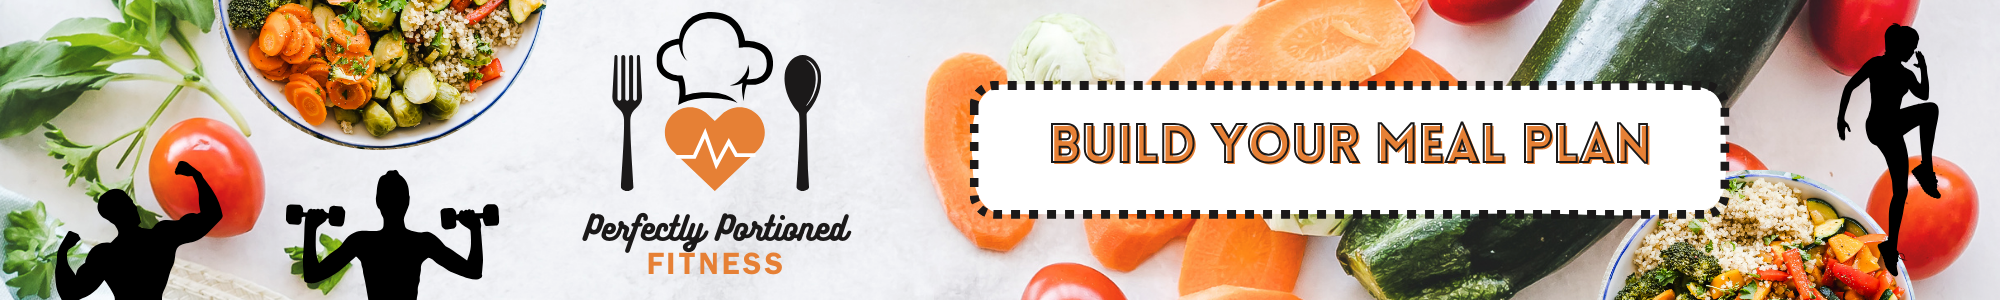
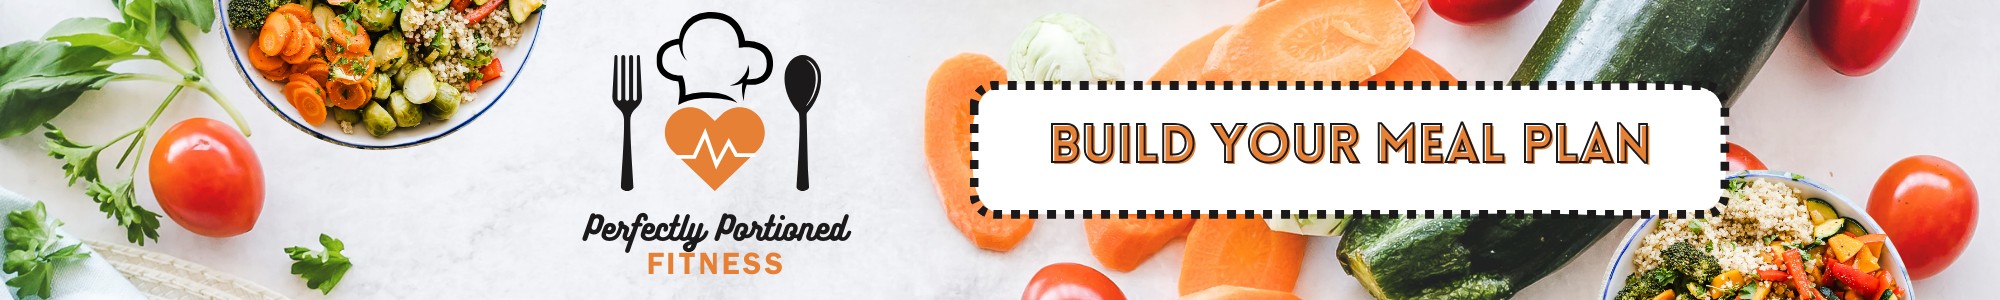
completed project

Changed region(s): [[0.0, 0.54, 0.248, 1.0], [0.899, 0.09, 0.992, 0.9]]

diff --git a/finalproject/script/projectJS.js b/finalproject/script/projectJS.js
@@ -1,10 +1,10 @@
 let myForm = document.getElementById("myForm");
 
 function validateEmail(email) {
-    let regex = /\S+@\S+\.\S+/;
+    //regex was a tutorial from stackoverflow
+    let regex = /^[^\s@]+@[^\s@]+\.[^\s@]+$/;
     return regex.test(email);
 }
-
 // Application must collect user's name, email, and weekly goal
 // Meal plan will display the user input for 5 meals for the week (Mon to Sun)
 // Users will be able to clear the weekly planner
@@ -17,17 +17,148 @@ function clearInput() {
     // Button will call a function that generates a new Webpage that will display the meal plan based on user's input
     // Use document.write() method to populate the newly generated webpage with all the HTML elements, formatting, and variable values needed to produce the desired output in Web (.htm) format
     // HINT: a monospaced font will allow text wrapping in your output
-    document.getElementById("formButton").addEventListener('click', function() {
-        let email = document.getElementById("email");
+    document.getElementById("formButton").addEventListener('click', function(e) {
+        let email = document.getElementById("email").value;
         if (!validateEmail(email)) {
-            alert('Please enter a valid email address.')
-            preventDefault();
+            alert('Please enter a valid email address.');
+            e.preventDefault();
         } else {
+            e.preventDefault();
+            let firstName = document.getElementById("firstName").value;
+            let goal = document.getElementById("goal").value;
+            let breakfast = document.getElementById("breakfast").value;
+            let snack1 = document.getElementById("snack1").value;
+            let lunch = document.getElementById("lunch").value;
+            let snack2 = document.getElementById("snack2").value;
+            let dinner = document.getElementById("dinner").value;
             
-        }
-        
-    })
+            let generatedPlan = `
+                <!DOCTYPE html>
+                    <html>
+                        <head>
+                            <title>Meal Plan</title>
+                            <style>
+                            /* CSS Reset */
+                            * {
+                                margin: 0;
+                                padding: 0;
+                                box-sizing: border-box;
+                            }
+                    
+                            h1, p, table, th, td {
+                                font-family: Arial, Helvetica, sans-serif;
+                                padding: 5px;
+                                text-align: center;
+                            }
+                            
+                            table, th, td {
+                                border-collapse: collapse;
+                                border: 1px solid;
+                            }
+
+                            table {
+                                margin-left: auto;
+                                margin-right: auto;
+                            }
+
+                            th {
+                                background-color: aliceblue;
+                            }
+
+                            #printPage {
+                                font-weight: bold;
+                                font-size: large;
+                                background-color: aliceblue;
+                                padding: 5px 10px;
+                                text-align: center;
+                                display: block;
+                                margin-top: 10px;
+                                margin-left: auto;
+                                margin-right: auto;
+                                border-radius: 5px;
+                                border: 1px solid black;
+                            }
+                            </style>
+                        </head>
+                        <body>
+                            <h1>Meal Plan for ${firstName}</h1>
+                            <p><b>Goal for the week:</b> ${goal}</p>
+                            <table>
+                                <tr>
+                                    <th>Meals</th>
+                                    <th>Monday</th>
+                                    <th>Tuesday</th>
+                                    <th>Wednesday</th>
+                                    <th>Thursday</th>
+                                    <th>Friday</th>
+                                    <th>Saturday</th>
+                                    <th>Sunday</th>
+                                </tr>
+                                <tr>
+                                    <th>Breakfast</th>
+                                    <td>${breakfast}</td>
+                                    <td>${breakfast}</td>
+                                    <td>${breakfast}</td>
+                                    <td>${breakfast}</td>
+                                    <td>${breakfast}</td>
+                                    <td>${breakfast}</td>
+                                    <td>${breakfast}</td>
+                                </tr>
+                                <tr>
+                                    <th>Snack</th>
+                                    <td>${snack1}</td>
+                                    <td>${snack1}</td>
+                                    <td>${snack1}</td>
+                                    <td>${snack1}</td>
+                                    <td>${snack1}</td>
+                                    <td>${snack1}</td>
+                                    <td>${snack1}</td>
+                                </tr>
+                                <tr>
+                                    <th>Lunch</th>
+                                    <td>${lunch}</td>
+                                    <td>${lunch}</td>
+                                    <td>${lunch}</td>
+                                    <td>${lunch}</td>
+                                    <td>${lunch}</td>
+                                    <td>${lunch}</td>
+                                    <td>${lunch}</td>
+                                </tr>
+                                <tr>
+                                    <th>Snack</th>
+                                    <td>${snack2}</td>
+                                    <td>${snack2}</td>
+                                    <td>${snack2}</td>
+                                    <td>${snack2}</td>
+                                    <td>${snack2}</td>
+                                    <td>${snack2}</td>
+                                    <td>${snack2}</td>
+                                </tr>
+                                <tr>
+                                    <th>Dinner</th>
+                                    <td>${dinner}</td>
+                                    <td>${dinner}</td>
+                                    <td>${dinner}</td>
+                                    <td>${dinner}</td>
+                                    <td>${dinner}</td>
+                                    <td>${dinner}</td>
+                                    <td>${dinner}</td>
+                                </tr>
+                            </table>
+                        
+                            <button id="printPage">Print Meal Plan</button>
+
+                            <script>
+                                document.getElementById("printPage").addEventListener('click',function() {
+                                    window.print();
+                                })
+                            </script>
+                        </body>
+                        </html>
+                    `;
+
+            let myWindow = window.open('about:blank', 'menuPlan', 'scrollbars=yes,resizable=yes,width=800,height=500,left=200,top=200');
+            myWindow.document.write(generatedPlan);
+         }});
 
 // Meal plan will only be generated if a proper email address is entered (form validation)
-
-

diff --git a/finalproject/css/styles.css b/finalproject/css/styles.css
@@ -5,20 +5,24 @@
 }
 
 .banner {
-    background-image: url("https://cdn.discordapp.com/attachments/447911733412102157/1232033711755628624/2000px.png?ex=6627fc4e&is=6626aace&hm=830e2941e2e9e2fb11eb4106c9761ca8814899afaaac50879ac0e8316762388e&");
     max-width: 100%;
-    height: 300px;
+    height: auto;
     background-position: center;
     background-repeat: no-repeat;
     background-size: contain;
     position: relative;
 }
 
+.banner-md, .banner-sm {
+    display: none;
+}
+
 main {
     width: 90%;
     margin: 0 auto;
-    background-color: rgb(255, 210, 192);
+    padding-bottom: 10px;
     font-family: Arial, Helvetica, sans-serif;
+    background-color: aliceblue;
 }
 
 h1 {
@@ -33,10 +37,17 @@ form {
     padding: 10px 20px;
 }
 
+label {
+    display: block;
+}
+
 input {
     height: 2em;
     width: 250px;
     padding: 5px;
+    margin-top: 5px;
+    margin-bottom: 5px;
+    display: block;
 }
 
 input[type=text]:focus {
@@ -44,32 +55,74 @@ input[type=text]:focus {
 }
 
 #formButton, #clearInput {
-    padding: 5px 10px;
+    padding: 10px 10px;
+    margin: 20px 10px 10px 0;
     font-size: large;
+    font-weight: bold;
+    background-color: pink;
+    border-radius: 5px;
+    border: 1px solid black;
 }
 
+footer {
+    margin: 0 auto;
+    background-color: rgb(0, 78, 146);
+    text-align: center;
+    padding: 30px;
+}
+
+footer p {
+    color: white;
+    font-family: Arial, Helvetica, sans-serif;
+}
 
 /* Media queries */
 @media only screen and (max-width: 1200px) {
-    .banner {
-        background-image: url("https://cdn.discordapp.com/attachments/447911733412102157/1232060852161478737/banner-md.png?ex=66281595&is=6626c415&hm=3aa3017584e315cadb82a86eae9988ac4b87ddc8fd7c5c00a0276c969e72450f&");
+    .banner-md {
         max-width: 100%;
-        height: 300px;
+        height: auto;
         background-position: center;
         background-repeat: no-repeat;
         background-size: contain;
         position: relative;
+        display: block;
     }
+
+    .banner, .banner-sm {
+        display: none;
+    }
+
+    main {
+        width: 95%;
+        margin: 0 auto;
+        padding-bottom: 10px;
+        font-family: Arial, Helvetica, sans-serif;
+        background-color: aliceblue;
+    }
+    
   }
 
 @media only screen and (max-width: 600px) {
-    .banner {
-        background-image: url("https://cdn.discordapp.com/attachments/447911733412102157/1232060341635125268/banner-sm.png?ex=6628151c&is=6626c39c&hm=a66525f71d8a1e02a710299248212570b1c8ffe7d565115ee54e32daafdbc1da&");
+    .banner-sm {
         max-width: 100%;
-        height: 300px;
+        height: auto;
         background-position: center;
         background-repeat: no-repeat;
         background-size: contain;
         position: relative;
+        display: block;
     }
+
+    .banner, .banner-md {
+        display: none;
+    }
+    
+    main {
+        width: 100%;
+        margin: 0 auto;
+        padding-bottom: 10px;
+        font-family: Arial, Helvetica, sans-serif;
+        background-color: aliceblue;
+    }
+
   }

diff --git a/finalproject/finalProject.html b/finalproject/finalProject.html
@@ -9,42 +9,50 @@
 </head>
 
 <header>
-        <div class="banner" alt="Perfectly Portioned Fitness Logo"></div>
+
+    <img class="banner" alt="Perfectly Portioned Fitness Logo" src="images/2000px.png">
+    <img class="banner-md" alt="Perfectly Portioned Fitness Logo" src='images/banner-md.png'>
+    <img class="banner-sm" alt="Perfectly Portioned Fitness Logo" src='images/banner-sm.png'>
+
 </header>
 
-<body>
-    <main>
-        <h1>Build Your Meal Plan</h1>
-        <form id="myForm">
-            <h2>Basic Information:</h2>
-            <label for="firstName">Enter first name:</label> <br>
-            <input type="text" id="firstName" name="firstName"> <br> <br>
 
-            <label for="email">Enter email address:</label> <br>
-            <input type="text" id="email" name="email"> <br> <br>
+<main>
+    <h1>Build Your Meal Plan</h1>
+    <form id="myForm">
+        <h2>Basic Information:</h2>
+        <label for="firstName">Enter first name:</label>
+        <input type="text" id="firstName" name="firstName">
 
-            <label for="goal">What is your goal for the week?</label> <br>
-            <input type="text" id="goal" name="goal"> <br> <br>
+        <label for="email">Enter email address:</label>
+        <input type="text" id="email" name="email">
+
+        <label for="goal">What is your goal for the week?</label>
+        <input type="text" id="goal" name="goal">
 
 
-            <h2>Meals:</h2>
-            <label for="breakfast">Breakfast:</label> <br>
-            <input type="text" id="breakfast" name="breakfast"> <br> <br>
+        <h2>Meals:</h2>
+        <label for="breakfast">Breakfast:</label>
+        <input type="text" id="breakfast" name="breakfast">
 
-            <label for="snack1">Snack 1:</label> <br>
-            <input type="text" id="snack1" name="snack1"> <br> <br>
+        <label for="snack1">Snack 1:</label>
+        <input type="text" id="snack1" name="snack1">
 
-            <label for="lunch">Lunch:</label> <br>
-            <input type="text" id="lunch" name="lunch"> <br> <br>
+        <label for="lunch">Lunch:</label>
+        <input type="text" id="lunch" name="lunch">
 
-            <label for="snack2">Snack 2:</label> <br>
-            <input type="text" id="snack2" name="snack2"> <br> <br>
+        <label for="snack2">Snack 2:</label>
+        <input type="text" id="snack2" name="snack2">
 
-            <label for="dinner">Dinner:</label> <br>
-            <input type="text" id="dinner" name="dinner"> <br> <br>
+        <label for="dinner">Dinner:</label>
+        <input type="text" id="dinner" name="dinner">
 
-            <button id="formButton">Generate Meal Plan</button> <button id="clearInput">Reset Meal Plan</button>
-        </form>
-    </main>
-</body>
+        <button id="formButton">Generate Meal Plan</button> <button id="clearInput">Reset Meal Plan</button>
+    </form>
+</main>
+<footer>
+    <p>&#169; Copyright 2024<br>
+    <p>Created by Jenny Do for WEB 115</p>
+</footer>
+
 </html>
